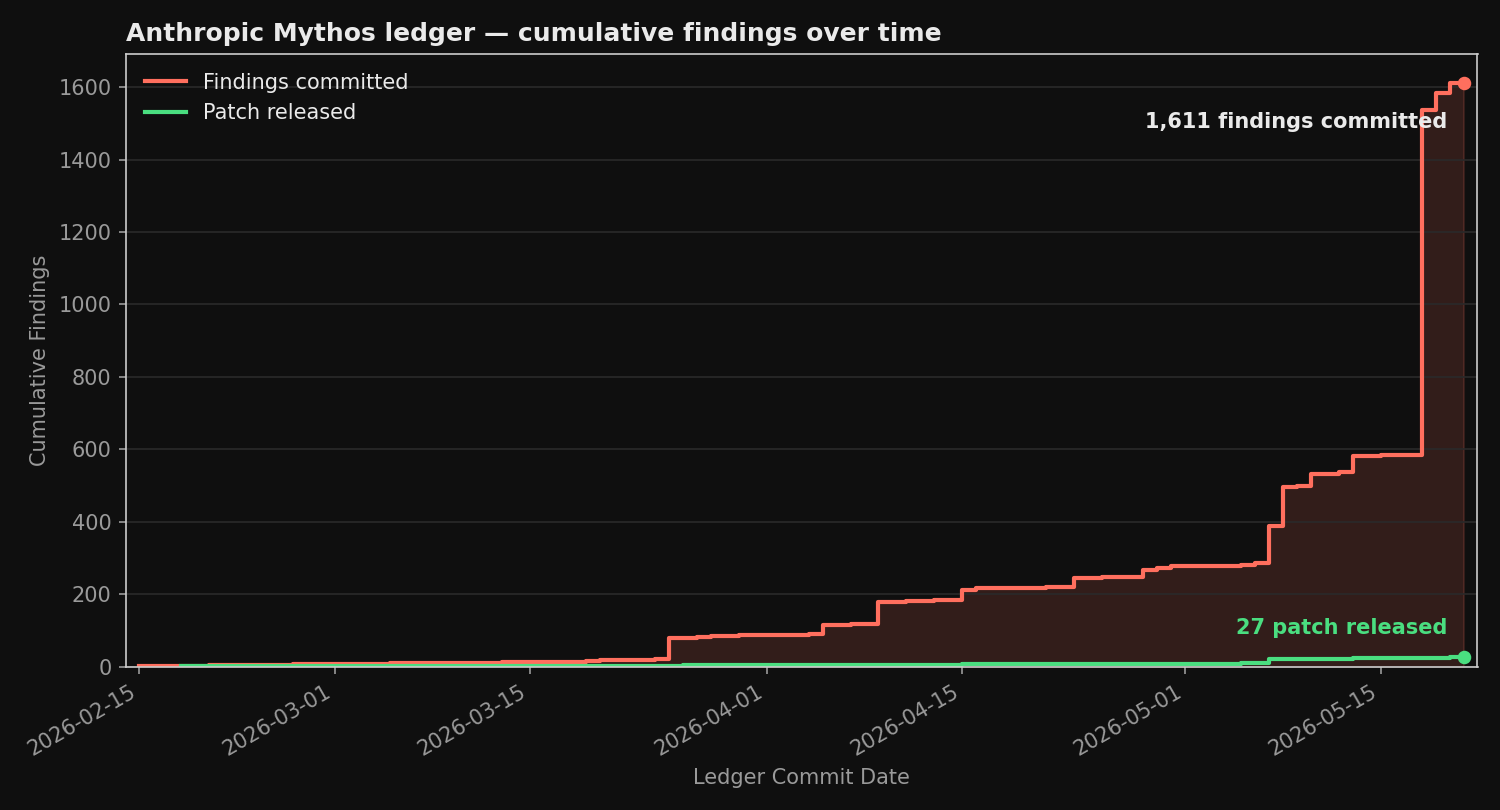
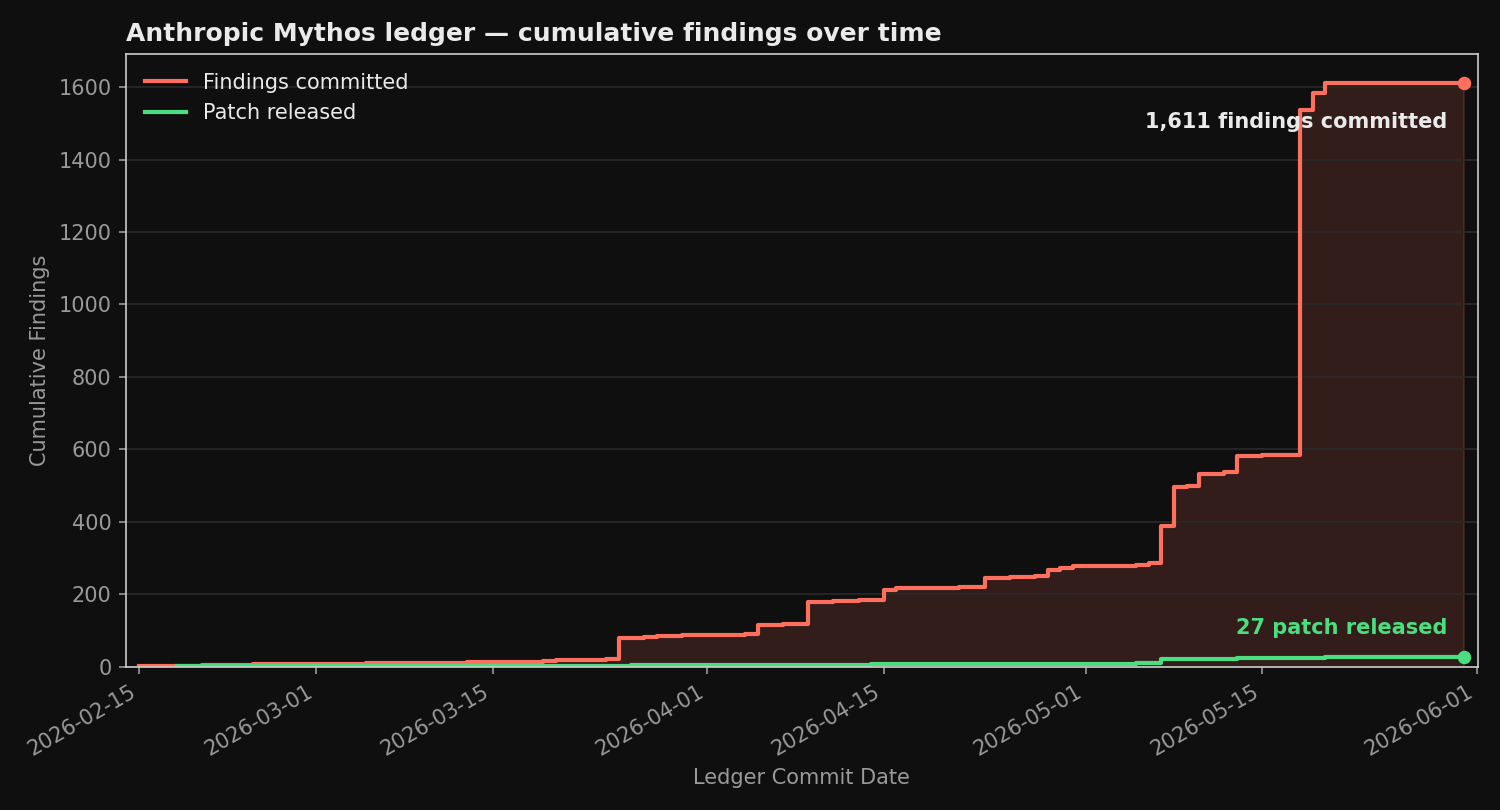
Charts now extend to current date

diff --git a/scripts/generate_chart.py b/scripts/generate_chart.py
@@ -918,6 +918,11 @@ def main() -> int:
         )
     released = load_cumulative_series(args.csv, "patch_released_at")
 
+    # Extend every series' flat tail to today so the chart always runs to the
+    # current date, even on days when the ledger added no new findings. Without
+    # this the line would stop at the last commit date and read as stale.
+    today = dt.datetime.now(dt.timezone.utc).date()
+
     # Series are drawn back-to-front in dict order. Put the headline
     # (committed) line first so the smaller patch-released line renders
     # on top and stays readable.
@@ -929,6 +934,7 @@ def main() -> int:
             "dasharray": "",
             "fill": True,
             "annotate": True,
+            "extend_to": today,
         },
         "released": {
             "label": "Patch released",
@@ -937,6 +943,7 @@ def main() -> int:
             "dasharray": "",   # solid -- nothing to disambiguate from
             "fill": False,
             "annotate": True,
+            "extend_to": today,
         },
     }
 
